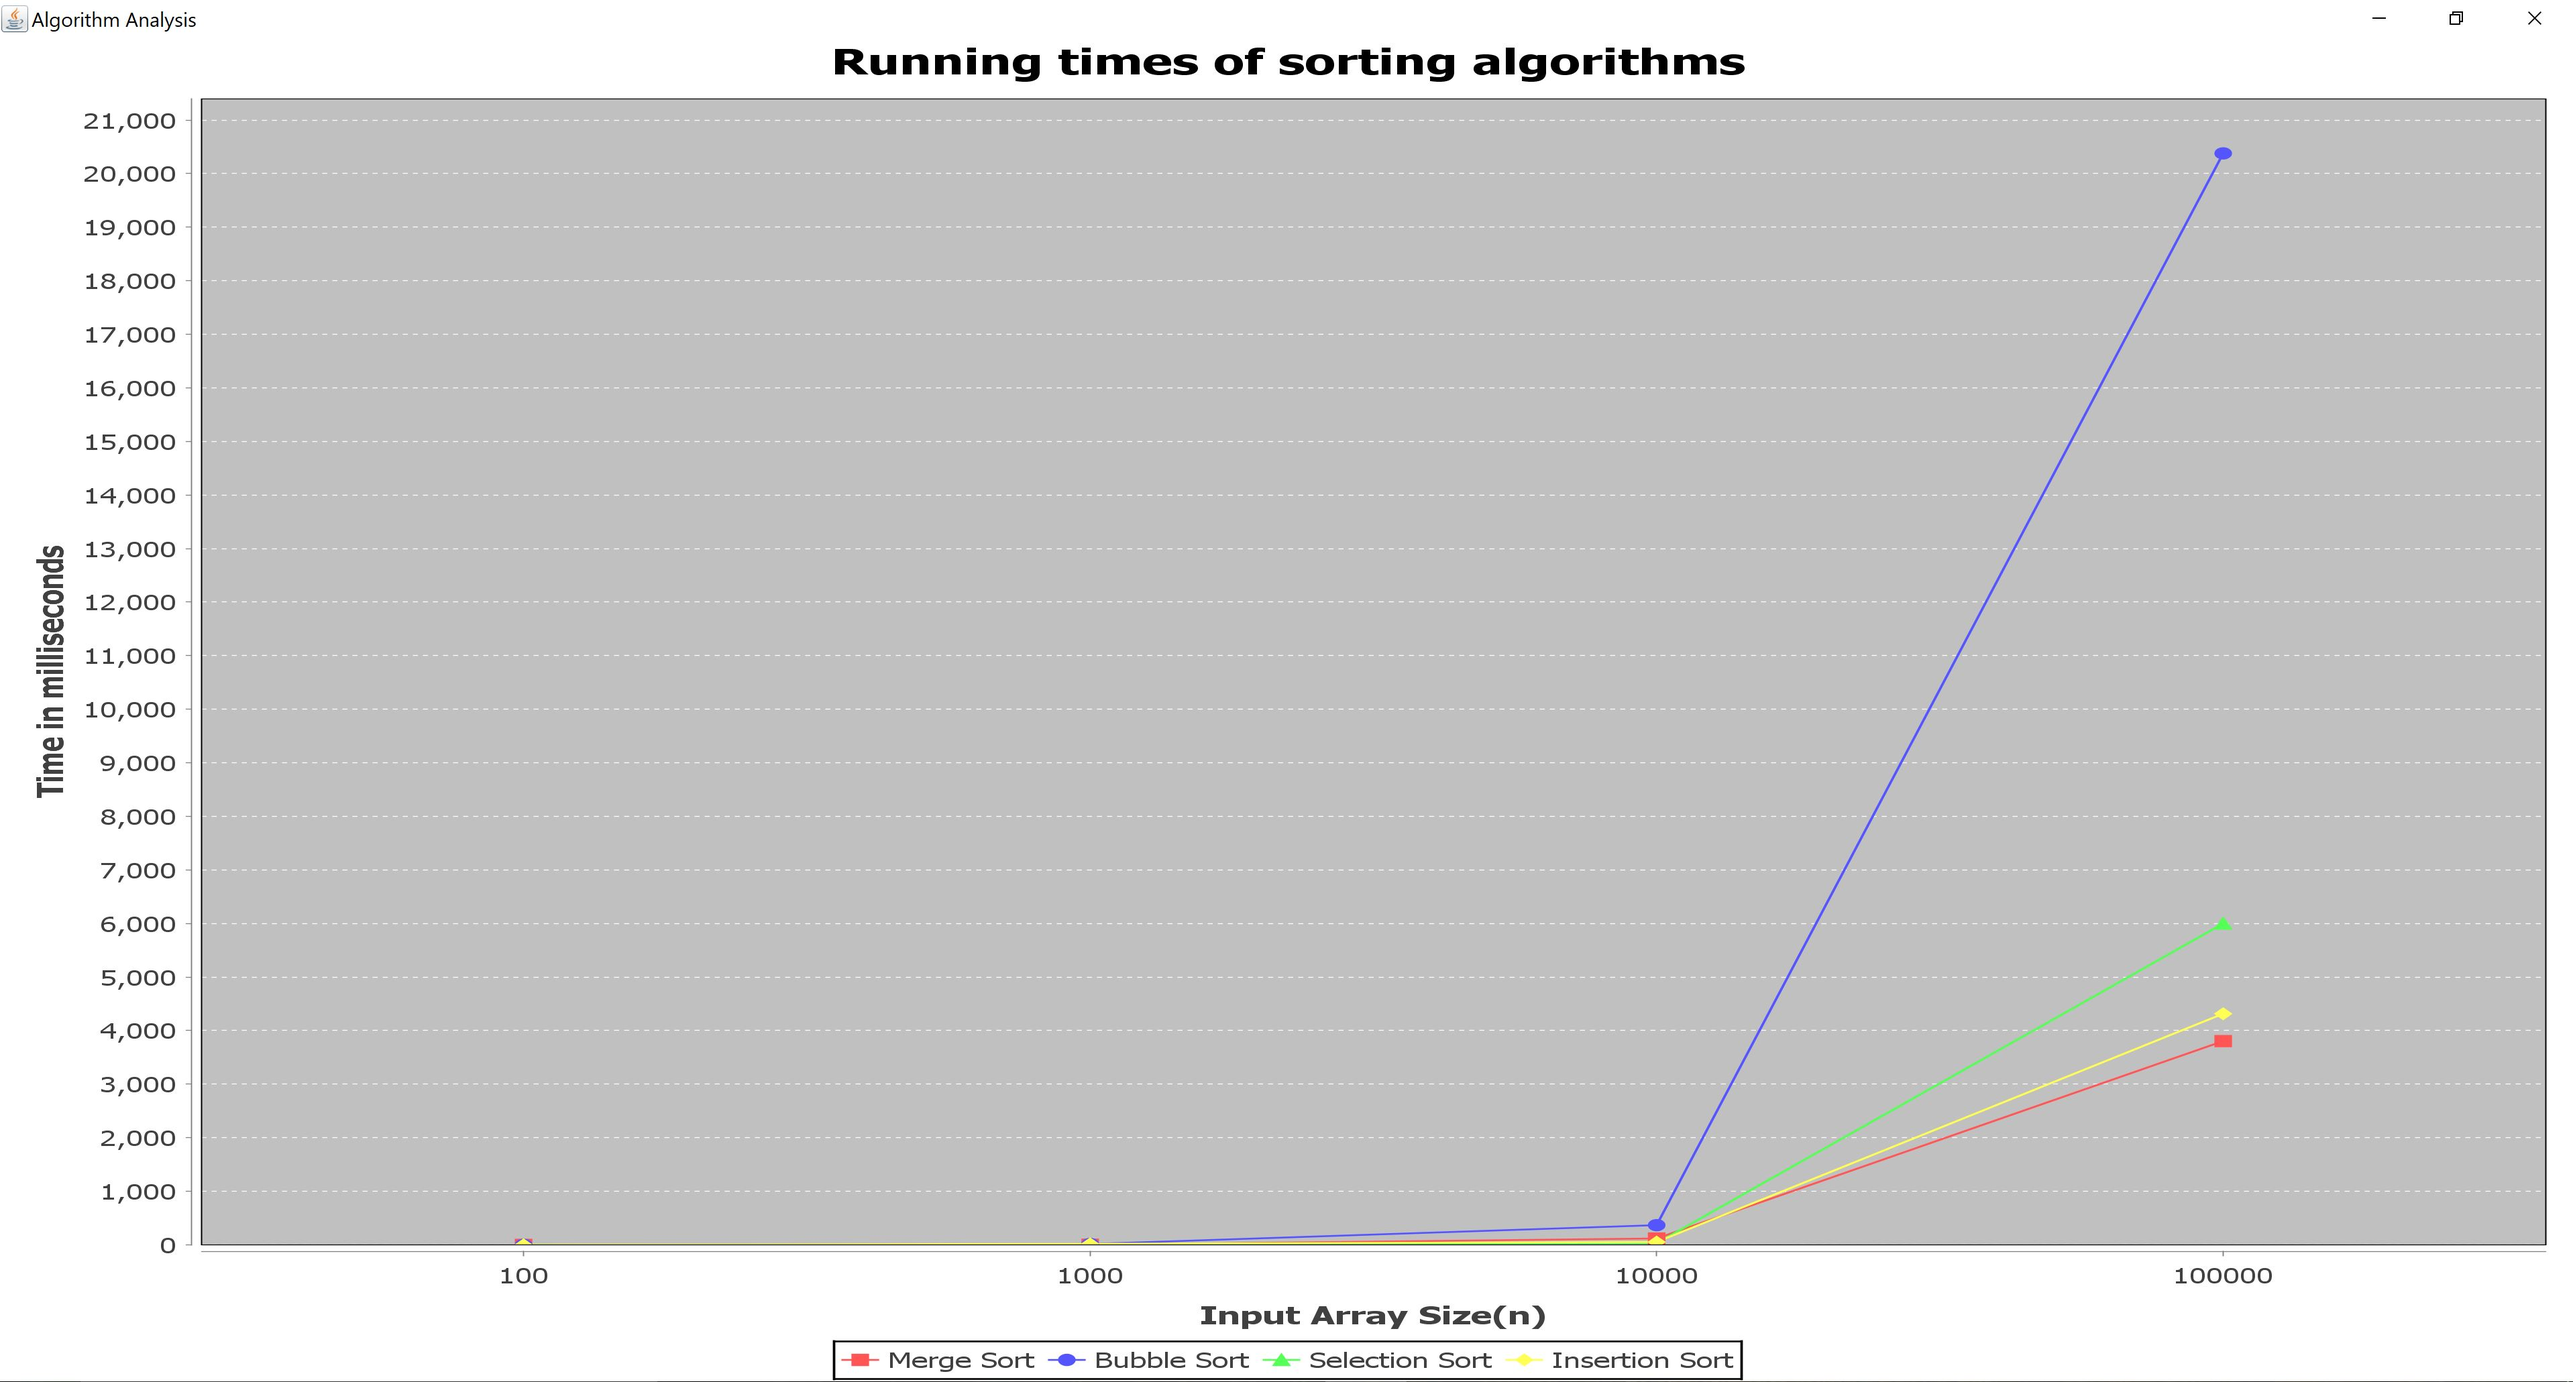
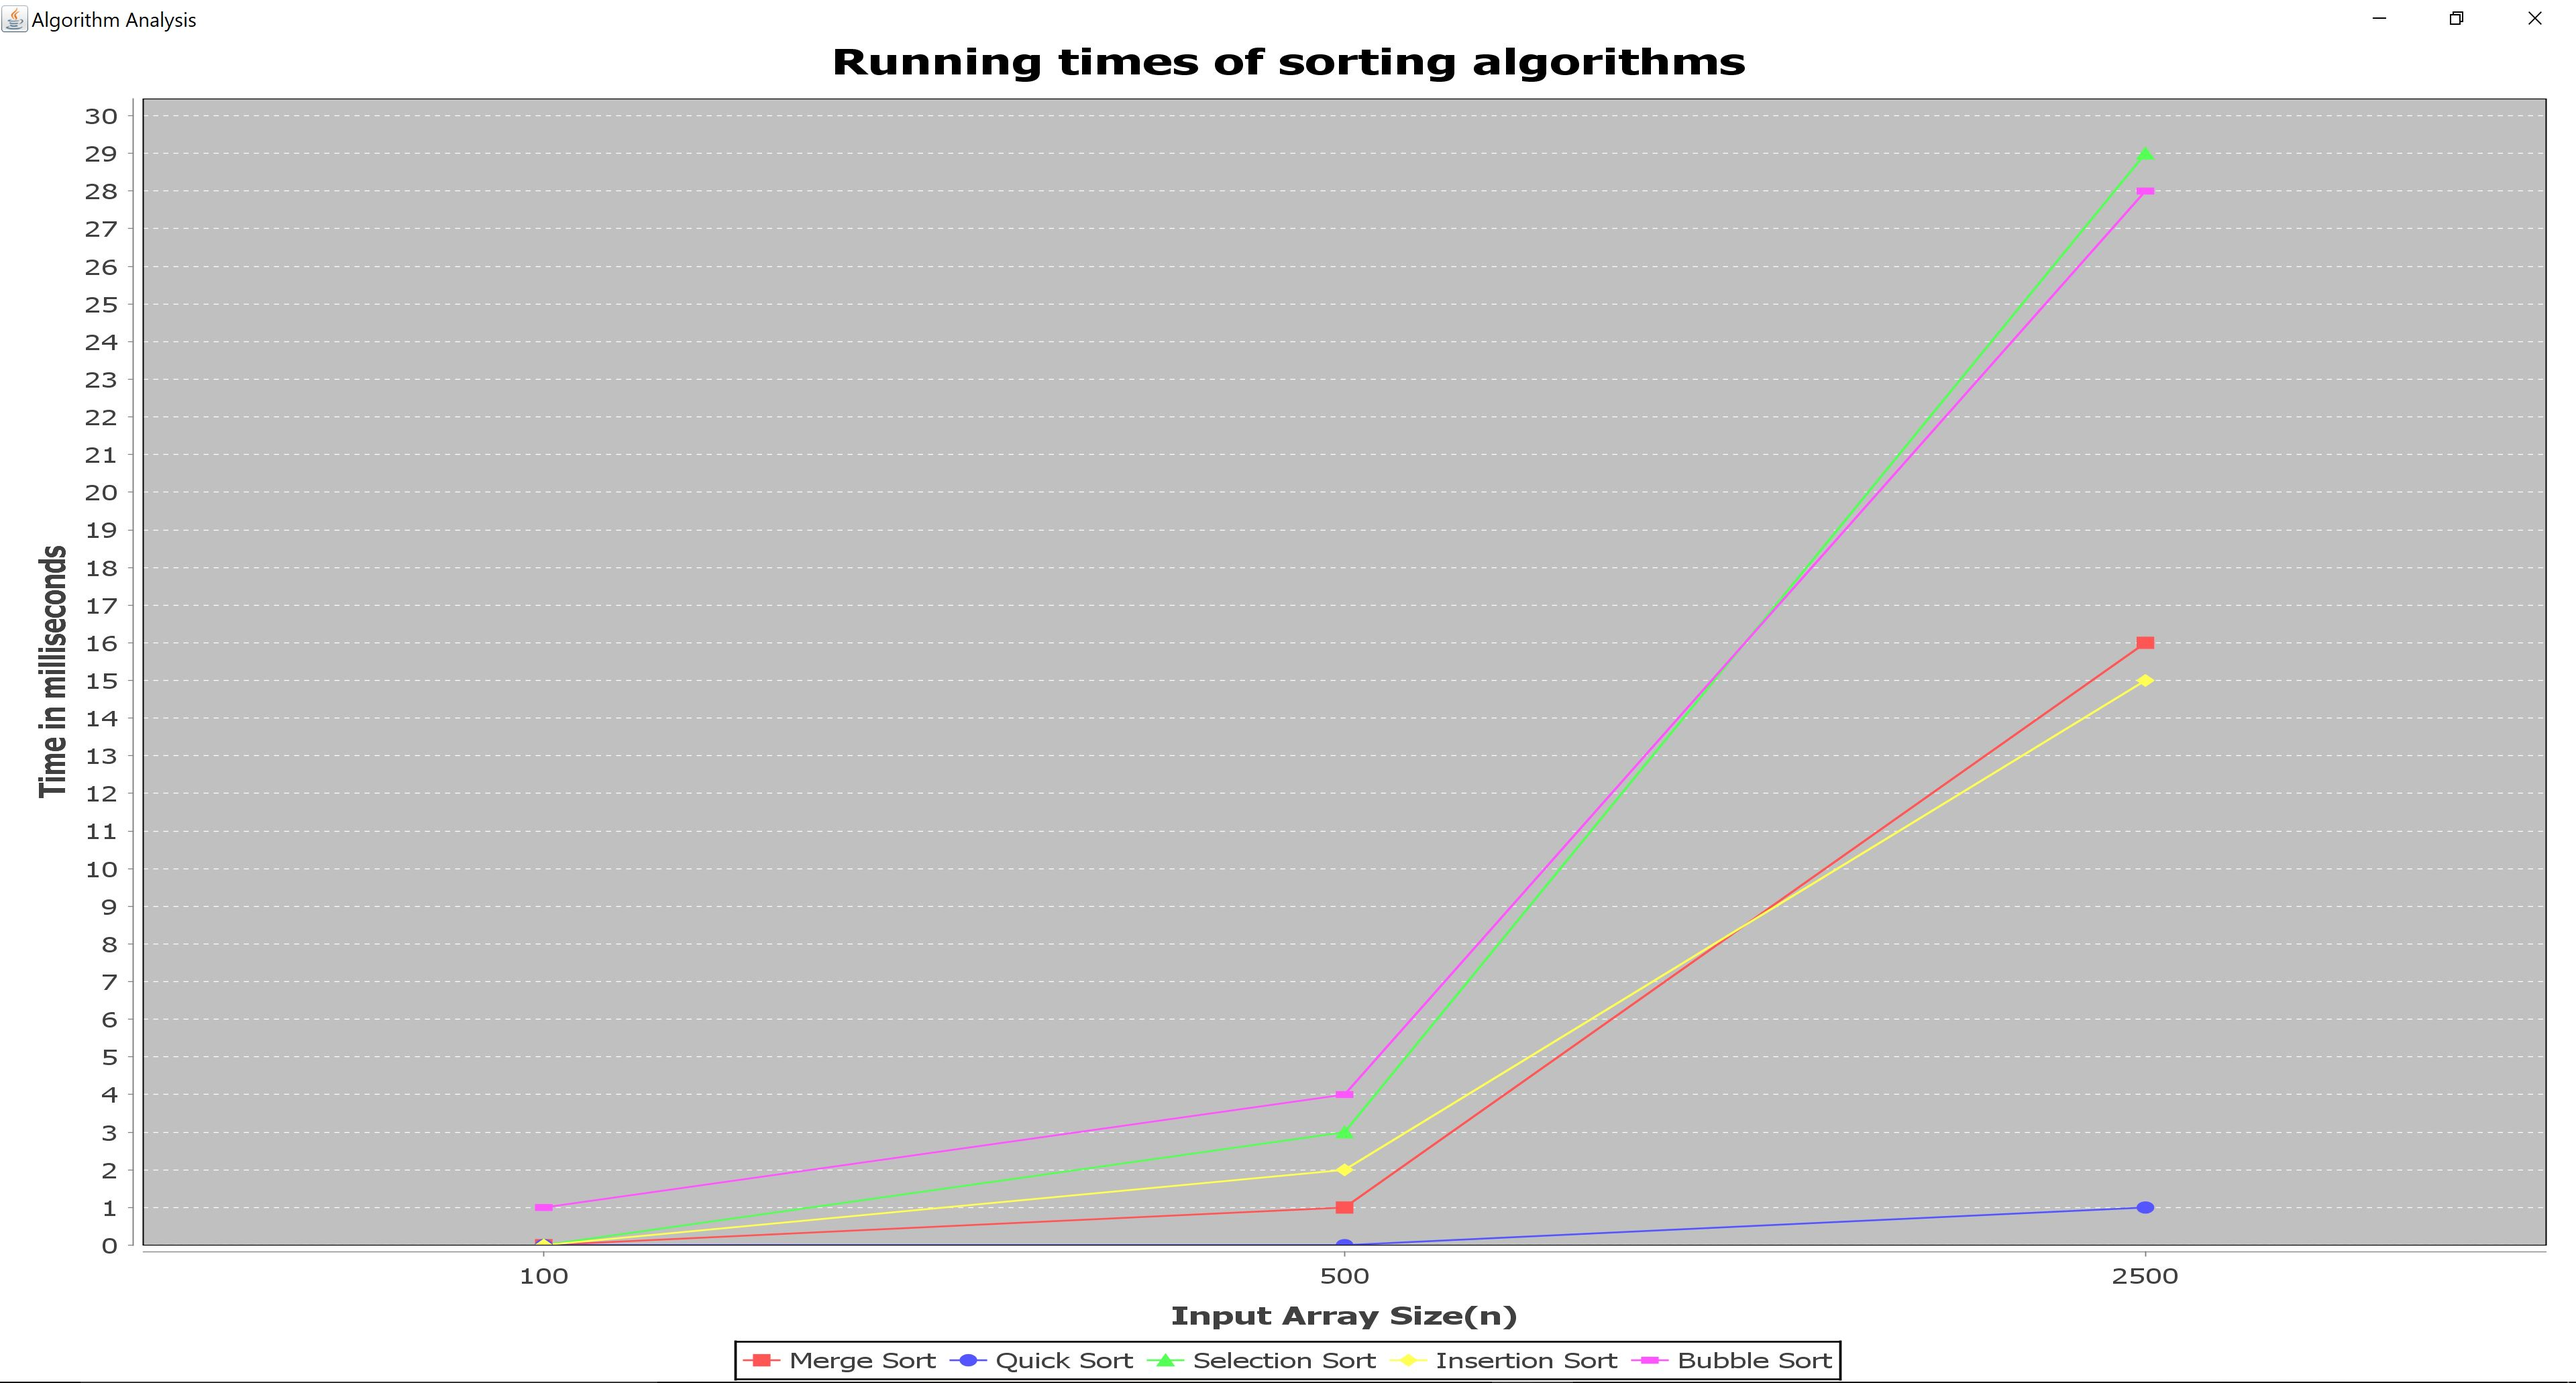
added qucik sort

diff --git a/src/sortingAnalysis/Main.java b/src/sortingAnalysis/Main.java
@@ -21,7 +21,7 @@ public class Main {
             }
         });
 		
-		while (n <= 100000) {
+		while (n <= 10000) {
 			
 			Integer[] a = new Integer[n];
 			
@@ -34,6 +34,12 @@ public class Main {
 			algos.split(test,0,a.length-1);
 			stop = System.currentTimeMillis();
 			LineChart.dataset.addValue(stop-start, "Merge Sort", Integer.toString(n));
+			
+			test = a.clone();
+			start = System.currentTimeMillis();
+			algos.qSplit(test,0,a.length-1);
+			stop = System.currentTimeMillis();
+			LineChart.dataset.addValue(stop-start, "Quick Sort", Integer.toString(n));
 			
 			test = a.clone();
 			start = System.currentTimeMillis();
@@ -53,8 +59,13 @@ public class Main {
 			stop = System.currentTimeMillis();
 			LineChart.dataset.addValue(stop-start, "Bubble Sort", Integer.toString(n));
 			
-			n*=10;
+			n*=5;
 		}
+		
+		/*Integer a[] = {10,4,7,2,8,5,1,2,6};
+		new SortingAlgorithms().qSplit(a,0,a.length-1);
+		for(int i=0;i<a.length;i++)
+			System.out.print(" "+a[i]);*/
 		
 	}	
 

diff --git a/src/sortingAnalysis/SortingAlgorithms.java b/src/sortingAnalysis/SortingAlgorithms.java
@@ -108,5 +108,34 @@ public class SortingAlgorithms {
 		}
 	}
 	
+	public int partition(Integer[] a, int left, int right) {
+		int pivot = a[left];
+		int i = left;
+		int j = right;
+		while(i < j) {
+			while(i < right && a[i] <= pivot) {
+				i++;
+			}
+			while(a[j] > pivot) {
+				j--;
+			}
+			if (i < j) {
+				int t = a[i];
+				a[i] = a[j];
+				a[j] = t;
+			}
+		}
+		a[left] = a[j];
+		a[j] = pivot;
+		return j;
+	}
+	
+	public void qSplit(Integer[] a, int left, int right) {
+		if(left < right) {
+			int p = partition(a, left, right);
+			qSplit(a, left, p-1);
+			qSplit(a,p+1,right);
+		}
+	}
 	
 }
